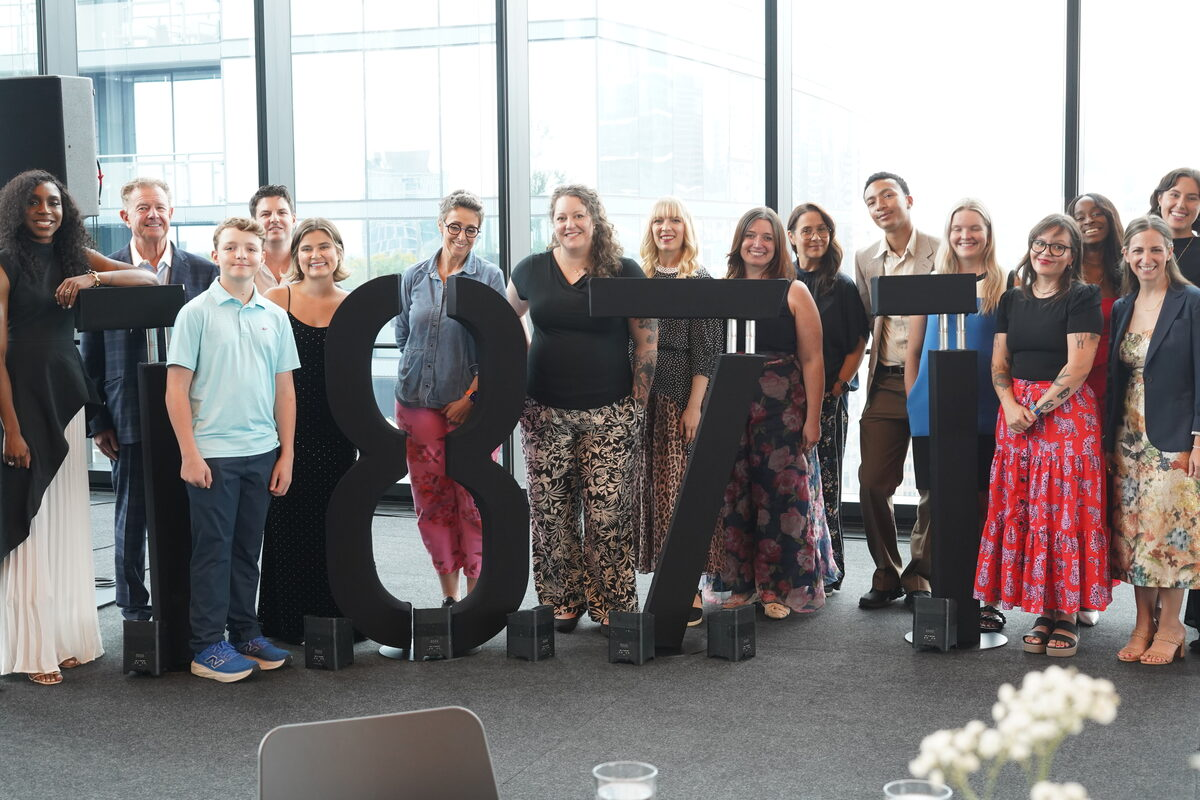
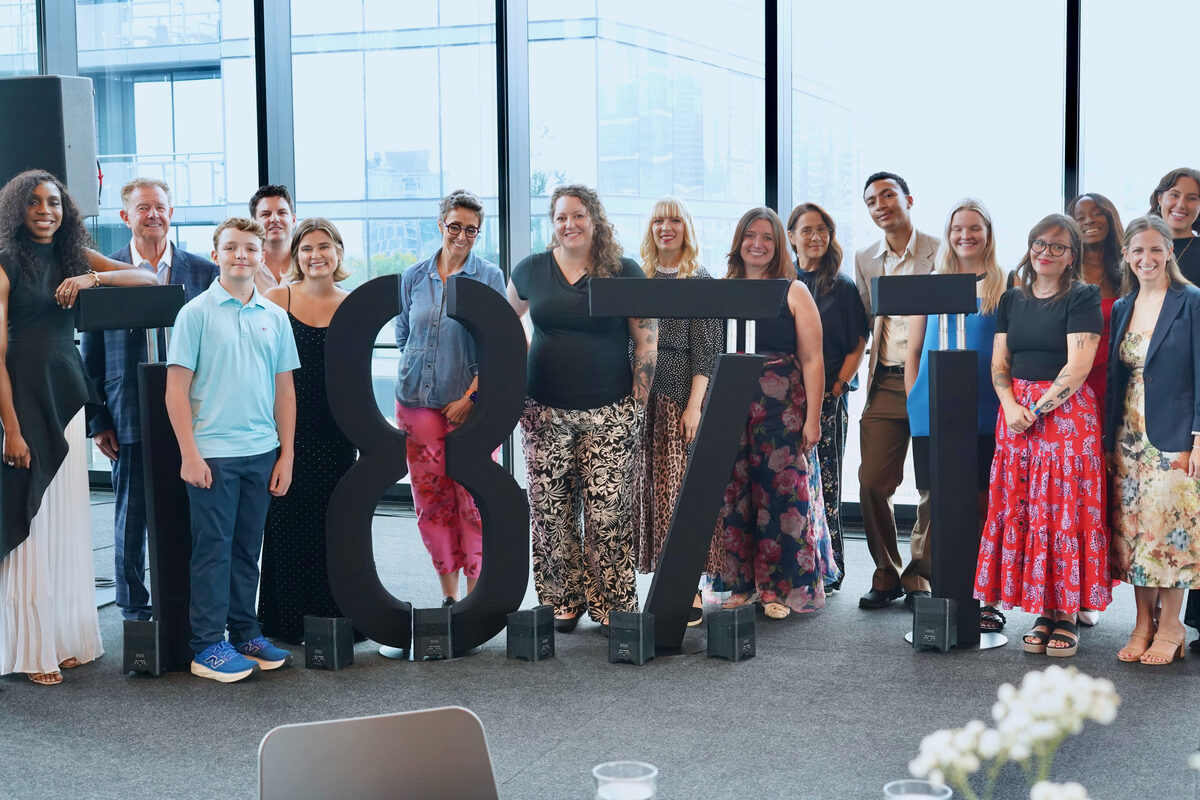
Swap in edited versions of the new CASA and 1871 photos
- CASA: replace the 14 unedited top picks with the 15 edited photos Billy shared
- 1871: use the delivered edits (Delivery/export*, Edits) for the same 12 picks

diff --git a/src/data/galleryImages.ts b/src/data/galleryImages.ts
@@ -89,20 +89,21 @@ export const IMAGE_MANIFEST: string[] = [
   '/events/S_PG2103.jpg',
   '/events/S_PG2181.jpg',
   // New shoots (Sep 2026)
-  '/events/casa-run-DSC08285.jpg',
-  '/events/casa-run-DSC08289.jpg',
-  '/events/casa-run-DSC08298.jpg',
-  '/events/casa-run-DSC08314.jpg',
-  '/events/casa-run-DSC08358.jpg',
-  '/events/casa-run-DSC08396.jpg',
-  '/events/casa-run-DSC08499.jpg',
-  '/events/casa-run-DSC08525.jpg',
-  '/events/casa-run-DSC08606.jpg',
-  '/events/casa-run-DSC08620.jpg',
-  '/events/casa-run-DSC08678.jpg',
-  '/events/casa-run-DSC08700.jpg',
-  '/events/casa-run-DSC08703.jpg',
-  '/events/casa-run-DSC08760.jpg',
+  '/events/casa-run-01.jpg',
+  '/events/casa-run-02.jpg',
+  '/events/casa-run-03.jpg',
+  '/events/casa-run-04.jpg',
+  '/events/casa-run-05.jpg',
+  '/events/casa-run-06.jpg',
+  '/events/casa-run-07.jpg',
+  '/events/casa-run-08.jpg',
+  '/events/casa-run-09.jpg',
+  '/events/casa-run-10.jpg',
+  '/events/casa-run-11.jpg',
+  '/events/casa-run-12.jpg',
+  '/events/casa-run-13.jpg',
+  '/events/casa-run-14.jpg',
+  '/events/casa-run-15.jpg',
   '/events/1871-DSC00255.jpg',
   '/events/1871-DSC00267.jpg',
   '/events/1871-DSC00334.jpg',
@@ -143,21 +144,22 @@ export const galleryImages: GalleryImage[] = [
   { src: "/creative/PPGS5490.jpg", category: "Creative/Editorial", size: "standard", title: "Studio Portrait", alt: "Creative/Editorial photography by BJN" },
   { src: "/creative/PPGS5541.jpg", category: "Creative/Editorial", size: "standard", title: "Studio Portrait", alt: "Creative/Editorial photography by BJN", isCover: true },
 
-  // --- Team CASA 20 Mile Run (new, 14) ---
-  { src: "/events/casa-run-DSC08285.jpg", category: "Non-Profit Events", size: "standard", title: "Team CASA 20 Mile Run", alt: "Non-Profit Events photography by BJN" },
-  { src: "/events/casa-run-DSC08289.jpg", category: "Non-Profit Events", size: "standard", title: "Team CASA 20 Mile Run", alt: "Non-Profit Events photography by BJN" },
-  { src: "/events/casa-run-DSC08298.jpg", category: "Non-Profit Events", size: "standard", title: "Team CASA 20 Mile Run", alt: "Non-Profit Events photography by BJN" },
-  { src: "/events/casa-run-DSC08314.jpg", category: "Non-Profit Events", size: "standard", title: "Team CASA 20 Mile Run", alt: "Non-Profit Events photography by BJN" },
-  { src: "/events/casa-run-DSC08358.jpg", category: "Non-Profit Events", size: "standard", title: "Team CASA 20 Mile Run", alt: "Non-Profit Events photography by BJN" },
-  { src: "/events/casa-run-DSC08396.jpg", category: "Non-Profit Events", size: "standard", title: "Team CASA 20 Mile Run", alt: "Non-Profit Events photography by BJN" },
-  { src: "/events/casa-run-DSC08499.jpg", category: "Non-Profit Events", size: "standard", title: "Team CASA 20 Mile Run", alt: "Non-Profit Events photography by BJN" },
-  { src: "/events/casa-run-DSC08525.jpg", category: "Non-Profit Events", size: "standard", title: "Team CASA 20 Mile Run", alt: "Non-Profit Events photography by BJN" },
-  { src: "/events/casa-run-DSC08606.jpg", category: "Non-Profit Events", size: "standard", title: "Team CASA 20 Mile Run", alt: "Non-Profit Events photography by BJN" },
-  { src: "/events/casa-run-DSC08620.jpg", category: "Non-Profit Events", size: "standard", title: "Team CASA 20 Mile Run", alt: "Non-Profit Events photography by BJN" },
-  { src: "/events/casa-run-DSC08678.jpg", category: "Non-Profit Events", size: "standard", title: "Team CASA 20 Mile Run", alt: "Non-Profit Events photography by BJN" },
-  { src: "/events/casa-run-DSC08700.jpg", category: "Non-Profit Events", size: "standard", title: "Team CASA 20 Mile Run", alt: "Non-Profit Events photography by BJN" },
-  { src: "/events/casa-run-DSC08703.jpg", category: "Non-Profit Events", size: "standard", title: "Team CASA 20 Mile Run", alt: "Non-Profit Events photography by BJN" },
-  { src: "/events/casa-run-DSC08760.jpg", category: "Non-Profit Events", size: "standard", title: "Team CASA 20 Mile Run", alt: "Non-Profit Events photography by BJN" },
+  // --- Team CASA 20 Mile Run (new, 15) ---
+  { src: "/events/casa-run-01.jpg", category: "Non-Profit Events", size: "standard", title: "Team CASA 20 Mile Run", alt: "Non-Profit Events photography by BJN" },
+  { src: "/events/casa-run-02.jpg", category: "Non-Profit Events", size: "standard", title: "Team CASA 20 Mile Run", alt: "Non-Profit Events photography by BJN" },
+  { src: "/events/casa-run-03.jpg", category: "Non-Profit Events", size: "standard", title: "Team CASA 20 Mile Run", alt: "Non-Profit Events photography by BJN" },
+  { src: "/events/casa-run-04.jpg", category: "Non-Profit Events", size: "standard", title: "Team CASA 20 Mile Run", alt: "Non-Profit Events photography by BJN" },
+  { src: "/events/casa-run-05.jpg", category: "Non-Profit Events", size: "standard", title: "Team CASA 20 Mile Run", alt: "Non-Profit Events photography by BJN" },
+  { src: "/events/casa-run-06.jpg", category: "Non-Profit Events", size: "standard", title: "Team CASA 20 Mile Run", alt: "Non-Profit Events photography by BJN" },
+  { src: "/events/casa-run-07.jpg", category: "Non-Profit Events", size: "standard", title: "Team CASA 20 Mile Run", alt: "Non-Profit Events photography by BJN" },
+  { src: "/events/casa-run-08.jpg", category: "Non-Profit Events", size: "standard", title: "Team CASA 20 Mile Run", alt: "Non-Profit Events photography by BJN" },
+  { src: "/events/casa-run-09.jpg", category: "Non-Profit Events", size: "standard", title: "Team CASA 20 Mile Run", alt: "Non-Profit Events photography by BJN" },
+  { src: "/events/casa-run-10.jpg", category: "Non-Profit Events", size: "standard", title: "Team CASA 20 Mile Run", alt: "Non-Profit Events photography by BJN" },
+  { src: "/events/casa-run-11.jpg", category: "Non-Profit Events", size: "standard", title: "Team CASA 20 Mile Run", alt: "Non-Profit Events photography by BJN" },
+  { src: "/events/casa-run-12.jpg", category: "Non-Profit Events", size: "standard", title: "Team CASA 20 Mile Run", alt: "Non-Profit Events photography by BJN" },
+  { src: "/events/casa-run-13.jpg", category: "Non-Profit Events", size: "standard", title: "Team CASA 20 Mile Run", alt: "Non-Profit Events photography by BJN" },
+  { src: "/events/casa-run-14.jpg", category: "Non-Profit Events", size: "standard", title: "Team CASA 20 Mile Run", alt: "Non-Profit Events photography by BJN" },
+  { src: "/events/casa-run-15.jpg", category: "Non-Profit Events", size: "standard", title: "Team CASA 20 Mile Run", alt: "Non-Profit Events photography by BJN" },
 
   // --- Non-Profit Events (8) --- cover: 273-SSUC6920
   { src: "/events/11-SSUC9688.jpg", category: "Non-Profit Events", size: "standard", title: "CASA Cook County Chicago Marathon", alt: "Non-Profit Events photography by BJN" },
